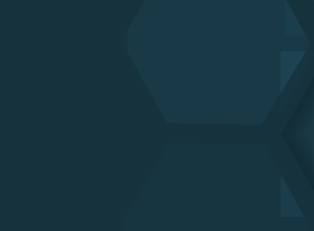
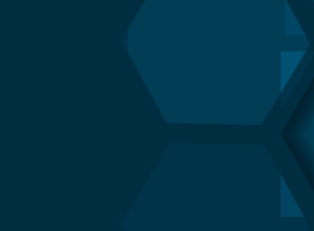
cambios de imagen y esteticos

Changed region(s): [[0.4013, 0.0, 1.0, 0.5455], [0.8885, 0.7576, 0.9745, 0.9394], [0.9745, 0.5152, 1.0, 0.6364]]

diff --git a/index.html b/index.html
@@ -82,12 +82,12 @@
         </div>
     </header>
     <!-- About-->
-    <section class="page-section" id="services">
+    <section class="page-section area" id="services">
         <div class="container px-4 px-lg-5">
             <div class="row gx-4 gx-lg-5 justify-content-center">
                 <br>
                 <br>
-                <div class="col-lg-8 text-center">
+                <div class="col-lg-8 text-center area">
                     <br>
                     <br>
                     <h2 id="about" class="text-black mt-0 animate__animated animate__slideInDown">ÁREAS DE EXPOSICIÓN
@@ -102,6 +102,18 @@
                                         <img class="img-fluid animate__animated animate__zoomIn imghover"
                                             src="assets/img/portfolio/thumbnails/fondoverde.png" alt="..." />
                                         <div class="portfolio-box-caption">
+                                            <ul class="circles">
+                                                <li></li>
+                                                <li></li>
+                                                <li></li>
+                                                <li></li>
+                                                <li></li>
+                                                <li></li>
+                                                <li></li>
+                                                <li></li>
+                                                <li></li>
+                                                <li></li>
+                                            </ul>
                                             <div class="project-category text-white-50">Categoría</div>
                                             <div class="project-name font-weight-bold">SIMULACIÓN PARA <br>
                                                 ENTRENAMIENTO
@@ -112,8 +124,20 @@
                                 <div class="col-lg-4 col-sm-6 margin">
                                     <a class="portfolio-box" title="Project Name">
                                         <img class="img-fluid animate__animated animate__zoomIn"
-                                            src="assets/img/portfolio/thumbnails/fondoverde.png" alt="..." />
+                                            src="assets/img/portfolio/thumbnails/fondoverde2.png" alt="..." />
                                         <div class="portfolio-box-caption">
+                                            <ul class="circles">
+                                                <li></li>
+                                                <li></li>
+                                                <li></li>
+                                                <li></li>
+                                                <li></li>
+                                                <li></li>
+                                                <li></li>
+                                                <li></li>
+                                                <li></li>
+                                                <li></li>
+                                            </ul>
                                             <div class="project-category text-white-50">Categoría</div>
                                             <div class="project-name font-weight-bold">SISTEMAS NO TRIPULADOS</div>
                                         </div>
@@ -124,6 +148,18 @@
                                         <img class="img-fluid animate__animated animate__zoomIn"
                                             src="assets/img/portfolio/thumbnails/fondoverde.png" alt="..." />
                                         <div class="portfolio-box-caption">
+                                            <ul class="circles">
+                                                <li></li>
+                                                <li></li>
+                                                <li></li>
+                                                <li></li>
+                                                <li></li>
+                                                <li></li>
+                                                <li></li>
+                                                <li></li>
+                                                <li></li>
+                                                <li></li>
+                                            </ul>
                                             <div class="project-category text-white-50">Categoría</div>
                                             <div class="project-name font-weight-bold">INTELIGENCIA ARTIFICIAL</div>
                                         </div>
@@ -132,8 +168,20 @@
                                 <div class="col-lg-4 col-sm-6 margin">
                                     <a class="portfolio-box" title="Project Name">
                                         <img class="img-fluid animate__animated animate__zoomIn"
-                                            src="assets/img/portfolio/thumbnails/fondoverde.png" alt="..." />
+                                            src="assets/img/portfolio/thumbnails/fondoverde2.png" alt="..." />
                                         <div class="portfolio-box-caption">
+                                            <ul class="circles">
+                                                <li></li>
+                                                <li></li>
+                                                <li></li>
+                                                <li></li>
+                                                <li></li>
+                                                <li></li>
+                                                <li></li>
+                                                <li></li>
+                                                <li></li>
+                                                <li></li>
+                                            </ul>
                                             <div class="project-category text-white-50">Categoría</div>
                                             <div class="project-name font-weight-bold">ENERGÍA DIRIGIDA</div>
                                         </div>
@@ -144,6 +192,18 @@
                                         <img class="img-fluid animate__animated animate__zoomIn"
                                             src="assets/img/portfolio/thumbnails/fondoverde.png" alt="..." />
                                         <div class="portfolio-box-caption">
+                                            <ul class="circles">
+                                                <li></li>
+                                                <li></li>
+                                                <li></li>
+                                                <li></li>
+                                                <li></li>
+                                                <li></li>
+                                                <li></li>
+                                                <li></li>
+                                                <li></li>
+                                                <li></li>
+                                            </ul>
                                             <div class="project-category text-white-50">Categoría</div>
                                             <div class="project-name font-weight-bold">TRANSICIÓN ENERGÉTICA</div>
                                         </div>
@@ -152,8 +212,20 @@
                                 <div class="col-lg-4 col-sm-6 margin">
                                     <a class="portfolio-box" title="Project Name">
                                         <img class="img-fluid animate__animated animate__zoomIn"
-                                            src="assets/img/portfolio/thumbnails/fondoverde.png" alt="..." />
+                                            src="assets/img/portfolio/thumbnails/fondoverde2.png" alt="..." />
                                         <div class="portfolio-box-caption">
+                                            <ul class="circles">
+                                                <li></li>
+                                                <li></li>
+                                                <li></li>
+                                                <li></li>
+                                                <li></li>
+                                                <li></li>
+                                                <li></li>
+                                                <li></li>
+                                                <li></li>
+                                                <li></li>
+                                            </ul>
                                             <div class="project-category text-white-50">Categoría</div>
                                             <div class="project-name font-weight-bold">CIENCIAS EXACTAS <br> Y NATURALES
                                             </div>
@@ -165,26 +237,33 @@
                     </div>
                     <br>
     </section>
-    <section class="page-section bg-dark text-white" id="contact">
+    <section class="page-section text-white fondoazul" id="contact">
+     
         <div class="container px-4 px-lg-5">
             <div class="row gx-4 gx-lg-5 justify-content-center">
                 <div class="text-center">
                     <br>
                     <br>
-
+                    <br>
+                    <br>
                     <h3 id="participacion" class="text-black-75">
                         INVITACIÓN A PUBLICAR TRABAJOS <br>
                         EN EL CONGRESO DE <br>
                         CIENCIA, TECNOLOGÍA E INNOVACIÓN PARA LA DEFENSA</h3>
+                    <br>
+                    <br>
                     <br>
                     <p class="text-bgrey-75 font-weight-bold">
                         Se invita a los investigadores y profesionales en temáticas de <br>
                         Ciencia, Tecnología e Innovación de interés para la Defensa <br>
                         a enviar sus trabajos para su publicación en el marco del Congreso CTID 2024.</p>
                     <br>
-                    <a class="btn btn-dark btn-xl" href="https://lu.ma/503iggvy">QUIERO
+                    <br>
+                    <br>
+
+                    <a class="btn btn-light btn-xl" href="https://lu.ma/503iggvy">QUIERO
                         ASISTIR</a>
-                    <a class="btn btn-dark btn-xl"
+                    <a class="btn btn-light btn-xl"
                         href="https://github.com/Ctid2024/CTID-2024/blob/main/README.md">QUIERO SER EXPOSITOR</a>
                 </div>
             </div>
@@ -192,28 +271,6 @@
         <br>
         <br>
     </section>
-    <!-- 
-                    <section class="container">
-                        <div class="align-items-center justify-content-center text-center">
-                            <div class="align-self-end">
-                                <div class="align-self-baseline">
-                                    <h3 id="participacion" class="text-black-75">INVITACIÓN A PUBLICAR TRABAJOS EN
-                                        CIENCIA, TECNOLOGÍA E
-                                        INNOVACIÓN PARA LA DEFENSA</h3>
-                                    <br>
-                                    <p class="text-bgrey-75 font-weight-bold"> Se invita a
-                                        investigadores y profesionales en
-                                        temáticas de Ciencia, Tecnología e
-                                        Innovación (CTI) de interés para la Defensa a enviar sus trabajos para su
-                                        publicación en el marco del Congreso CTID 2024.</p>
-                                </div>
-                            </div>
-                        </div>
-                        <br>
-                        <a class="btn btn-dark btn-xl" href="https://lu.ma/503iggvy">QUIERO
-                            ASISTIR</a>
-                        <a class="btn btn-dark btn-xl"
-                            href="https://github.com/Ctid2024/CTID-2024/blob/main/README.md">QUIERO SER EXPOSITOR</a> -->
     </div>
     </div>
     </div>
@@ -313,7 +370,7 @@
         </div>
     </section>
     <!-- Contact-->
-    <section class="page-section bg-dark text-white" id="contact">
+    <section class="page-section fondoazul text-white" id="contact">
         <br>
         <br>
         <div class="container px-4 px-lg-5">

diff --git a/css/estilo.css b/css/estilo.css
@@ -1,37 +1,26 @@
+html,
+body {
+    height: 100%;
+    margin: 0;
+    overflow: auto;
+}
 
-
-.context {
+.area {
     width: 100%;
-    position: absolute;
-    top:50vh;
-    
+    min-height: 100vh;
+    position: relative;
+    overflow: hidden;
 }
 
-.context h1{
-    text-align: center;
-    color: #fff;
-    font-size: 50px;
-}
-
-
-.area{
-    background: #4e54c8;  
-    background: -webkit-linear-gradient(to left, #8f94fb, #4e54c8);  
-    width: 100%;
-    height:100vh;
-    
-}
-
-.circles{
+.circles {
     position: absolute;
     top: 0;
     left: 0;
     width: 100%;
     height: 100%;
-    overflow: hidden;
 }
 
-.circles li{
+.circles li {
     position: absolute;
     display: block;
     list-style: none;
@@ -40,18 +29,16 @@
     background: rgba(255, 255, 255, 0.2);
     animation: animate 25s linear infinite;
     bottom: -150px;
-    
 }
 
-.circles li:nth-child(1){
+.circles li:nth-child(1) {
     left: 25%;
     width: 80px;
     height: 80px;
     animation-delay: 0s;
 }
 
-
-.circles li:nth-child(2){
+.circles li:nth-child(2) {
     left: 10%;
     width: 20px;
     height: 20px;
@@ -59,14 +46,14 @@
     animation-duration: 12s;
 }
 
-.circles li:nth-child(3){
+.circles li:nth-child(3) {
     left: 70%;
     width: 20px;
     height: 20px;
     animation-delay: 4s;
 }
 
-.circles li:nth-child(4){
+.circles li:nth-child(4) {
     left: 40%;
     width: 60px;
     height: 60px;
@@ -74,28 +61,28 @@
     animation-duration: 18s;
 }
 
-.circles li:nth-child(5){
+.circles li:nth-child(5) {
     left: 65%;
     width: 20px;
     height: 20px;
     animation-delay: 0s;
 }
 
-.circles li:nth-child(6){
+.circles li:nth-child(6) {
     left: 75%;
     width: 110px;
     height: 110px;
     animation-delay: 3s;
 }
 
-.circles li:nth-child(7){
+.circles li:nth-child(7) {
     left: 35%;
     width: 150px;
     height: 150px;
     animation-delay: 7s;
 }
 
-.circles li:nth-child(8){
+.circles li:nth-child(8) {
     left: 50%;
     width: 25px;
     height: 25px;
@@ -103,7 +90,7 @@
     animation-duration: 45s;
 }
 
-.circles li:nth-child(9){
+.circles li:nth-child(9) {
     left: 20%;
     width: 15px;
     height: 15px;
@@ -111,7 +98,7 @@
     animation-duration: 35s;
 }
 
-.circles li:nth-child(10){
+.circles li:nth-child(10) {
     left: 85%;
     width: 150px;
     height: 150px;
@@ -119,20 +106,17 @@
     animation-duration: 11s;
 }
 
-
-
 @keyframes animate {
-
-    0%{
+    0% {
         transform: translateY(0) rotate(0deg);
         opacity: 1;
         border-radius: 0;
     }
 
-    100%{
+    100% {
         transform: translateY(-1000px) rotate(720deg);
         opacity: 0;
         border-radius: 50%;
     }
-
 }
+

diff --git a/css/styles.css b/css/styles.css
@@ -12870,3 +12870,9 @@ header.masthead .h1 {
 .margin {
   margin-bottom: 10px;
 }
+
+/* FONDO */
+
+.fondoazul {
+  background-color: #12334A;
+}
